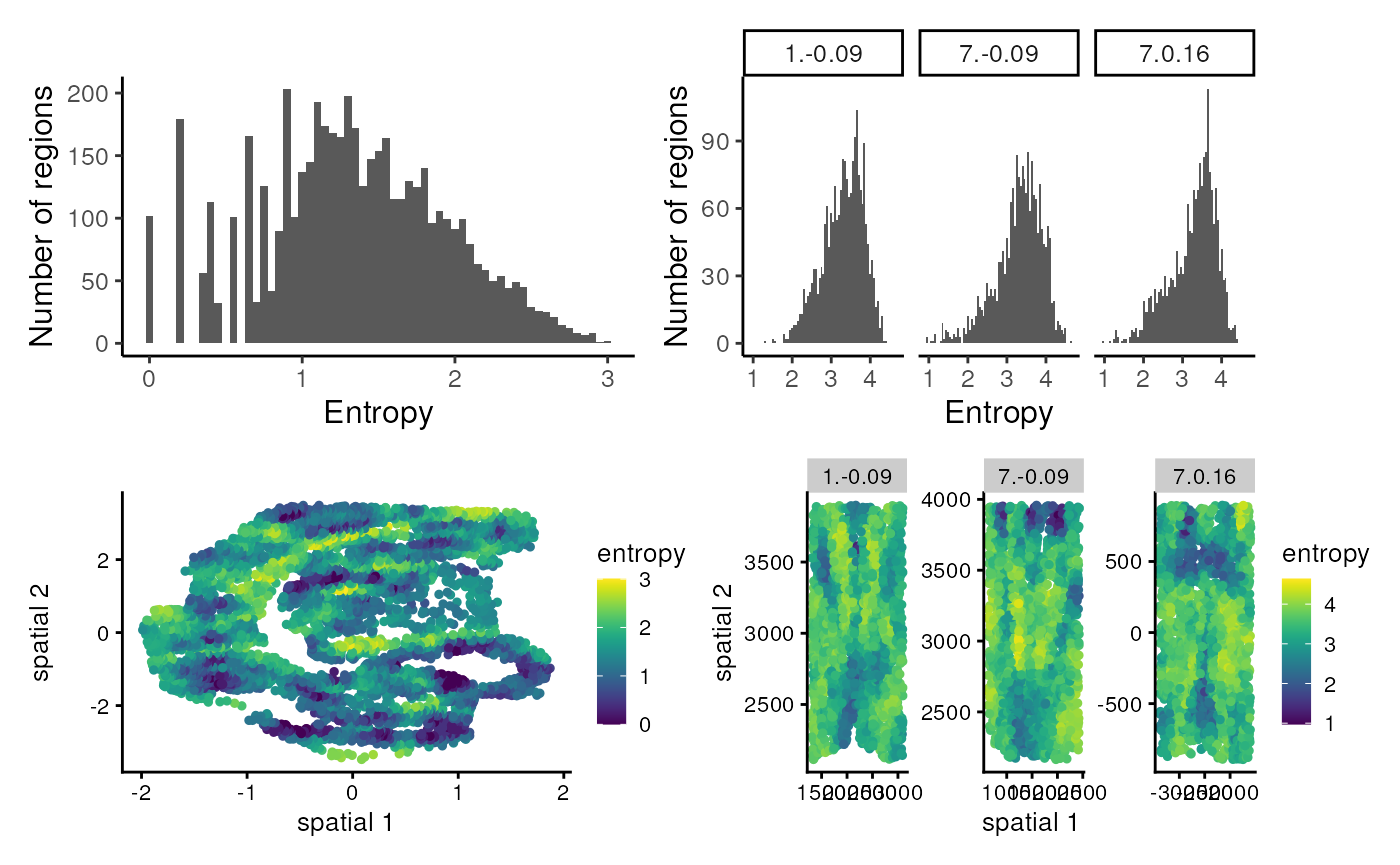
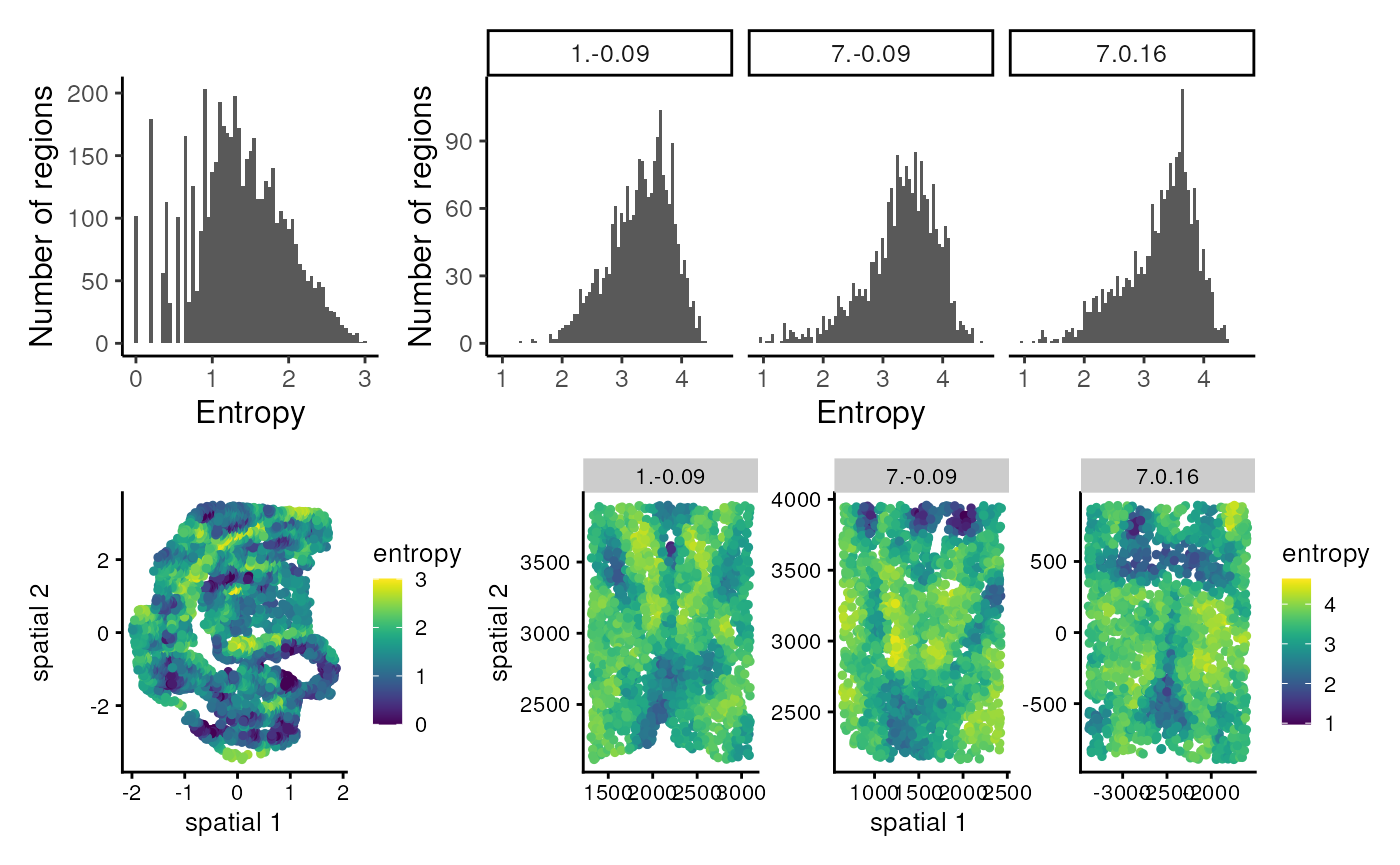
Deploying to gh-pages from @ SydneyBioX/clustSIGNAL_workshop@e07d63199d63f5c2bc3913cc8a1e43b6aa5dcfb4 🚀

diff --git a/articles/clustSIGNAL_tutorial.html b/articles/clustSIGNAL_tutorial.html
@@ -106,9 +106,9 @@ Australia<br><math display="inline" xmlns="http://www.w3.org/1998/Math/MathML"><
 Charles Perkins Centre, University of Sydney, Australia</p>
 <p>Contact: pratibha.panwar@sydney.edu.au</p>
 <p>In this RStudio instance, we will cover the remaining tasks.</p>
-<div class="section level3">
-<h3 id="setup-installation">Setup Installation<a class="anchor" aria-label="anchor" href="#setup-installation"></a>
-</h3>
+<div class="section level4">
+<h4 id="setup-installation">Setup Installation<a class="anchor" aria-label="anchor" href="#setup-installation"></a>
+</h4>
 <div class="sourceCode" id="cb1"><pre class="downlit sourceCode r">
 <code class="sourceCode R"><span><span class="co"># you do not need to run this chunk</span></span>
 <span><span class="co"># the packages are already installed in this instance</span></span>
@@ -120,9 +120,9 @@ Charles Perkins Centre, University of Sydney, Australia</p>
 <span><span class="co"># install.packages("devtools")</span></span>
 <span><span class="co"># devtools::install_github("SydneyBioX/clustSIGNAL")</span></span></code></pre></div>
 </div>
-<div class="section level3">
-<h3 id="loading-packages">Loading packages<a class="anchor" aria-label="anchor" href="#loading-packages"></a>
-</h3>
+<div class="section level4">
+<h4 id="loading-packages">Loading packages<a class="anchor" aria-label="anchor" href="#loading-packages"></a>
+</h4>
 <div class="sourceCode" id="cb2"><pre class="downlit sourceCode r">
 <code class="sourceCode R"><span><span class="co"># load required packages</span></span>
 <span><span class="kw"><a href="https://rdrr.io/r/base/library.html" class="external-link">library</a></span><span class="op">(</span><span class="va"><a href="https://sydneybiox.github.io/clustSIGNAL/" class="external-link">clustSIGNAL</a></span><span class="op">)</span></span>
@@ -153,7 +153,7 @@ expression for 181 samples, with 155 genes and a total of 1,027,080
 cells. Here, we use a subset data of 6000 cells randomly selected from
 only 3 samples - Animal 1 Bregma -0.09 (2080 cells), Animal 7 Bregma
 0.16 (1936 cells), and Animal 7 Bregma -0.09 (1984 cells), excluding
-cells that had been annotated as ‘ambiguous’ and 20 genes that were
+cells that had been annotated as ‘Ambiguous’ and 20 genes that were
 assessed using a different technology.</p>
 <p>These sampled datasets are available with clustSIGNAL package and can
 be accessed as below:</p>
@@ -169,7 +169,7 @@ be accessed as below:</p>
 <div class="section level3">
 <h3 id="creating-spatialexperiment-objects">Creating SpatialExperiment objects<a class="anchor" aria-label="anchor" href="#creating-spatialexperiment-objects"></a>
 </h3>
-<p>clustSIGNAL requires a SpatialExperiment (spe) object as input, so
+<p>ClustSIGNAL requires a SpatialExperiment (spe) object as input, so
 first we need to create a spe object from the gene expression and cell
 metadata we have in our environment.</p>
 <p>The gene expression data is in a gene by cell matrix. The cell
@@ -178,7 +178,7 @@ coordinates of each cell.</p>
 <p>Let us work with the MERFISH data first, by creating a spe object
 from the data.</p>
 <div class="sourceCode" id="cb5"><pre class="downlit sourceCode r">
-<code class="sourceCode R"><span><span class="co"># to create spe object we need gene expression, cell metadata, and cell location</span></span>
+<code class="sourceCode R"><span><span class="co"># to create spe object we need gene expression, cell metadata, and cell locations</span></span>
 <span><span class="va">spe_mh</span> <span class="op">&lt;-</span> <span class="fu"><a href="https://rdrr.io/pkg/SpatialExperiment/man/SpatialExperiment.html" class="external-link">SpatialExperiment</a></span><span class="op">(</span>assays <span class="op">=</span> <span class="fu"><a href="https://rdrr.io/r/base/list.html" class="external-link">list</a></span><span class="op">(</span>logcounts <span class="op">=</span> <span class="va">mh_expr</span><span class="op">)</span>,</span>
 <span>                            colData <span class="op">=</span> <span class="va">mh_data</span>, </span>
 <span>                            <span class="co"># spatialCoordsNames requires column names in </span></span>
@@ -207,7 +207,7 @@ be stored in one spe object), colData (the cell characteristics are
 stored here), rowData (the gene characteristics can be stored here),
 spatialCoords (the x-y coordinates of each cell are stored here),
 reducedDims (any low embeddings data can be stored here), and imgData
-(any images from the data can be stored here).</p>
+(any images from the dataset can be stored here).</p>
 </div>
 <div class="section level3">
 <h3 id="running-clustsignal">Running clustSIGNAL<a class="anchor" aria-label="anchor" href="#running-clustsignal"></a>
@@ -287,16 +287,16 @@ using the <strong>clustParams</strong> parameter list.</p>
 <span><span class="va">c_label</span> <span class="op">&lt;-</span> <span class="st">"Cell_ID"</span> <span class="co"># column name containing cell IDs</span></span>
 <span><span class="va">res_mh</span> <span class="op">&lt;-</span> <span class="fu"><a href="https://sydneybiox.github.io/clustSIGNAL/reference/clustSIGNAL.html" class="external-link">clustSIGNAL</a></span><span class="op">(</span><span class="va">spe_mh</span>, samples <span class="op">=</span> <span class="va">smp_label</span>, cells <span class="op">=</span> <span class="va">c_label</span>, </span>
 <span>                      outputs <span class="op">=</span> <span class="st">"a"</span><span class="op">)</span></span></code></pre></div>
-<pre><code><span><span class="co">#&gt; [1] "Calculating PCA. Time 04:25:54"</span></span>
-<span><span class="co">#&gt; [1] "clustSIGNAL run started. Time 04:25:54"</span></span>
-<span><span class="co">#&gt; [1] "Initial nonspatial clustering performed. Clusters = 11 Time 04:25:56"</span></span></code></pre>
-<pre><code><span><span class="co">#&gt; [1] "Nonspatial subclustering performed. Subclusters = 52 Time 04:25:57"</span></span>
-<span><span class="co">#&gt; [1] "Regions defined. Time 04:26:00"</span></span>
-<span><span class="co">#&gt; [1] "Region domainness calculated. Time 04:26:00"</span></span>
-<span><span class="co">#&gt; [1] "Smoothing performed. NN = 30 Kernel = G Spread = 0.05 Time 04:26:39"</span></span>
-<span><span class="co">#&gt; [1] "Nonspatial clustering performed on smoothed data. Clusters = 11 Time 04:26:41"</span></span>
-<span><span class="co">#&gt; [1] "clustSIGNAL run completed. 04:26:41"</span></span>
-<span><span class="co">#&gt; Time difference of 47.32858 secs</span></span></code></pre>
+<pre><code><span><span class="co">#&gt; [1] "Calculating PCA. Time 07:17:17"</span></span>
+<span><span class="co">#&gt; [1] "clustSIGNAL run started. Time 07:17:17"</span></span>
+<span><span class="co">#&gt; [1] "Initial nonspatial clustering performed. Clusters = 11 Time 07:17:18"</span></span></code></pre>
+<pre><code><span><span class="co">#&gt; [1] "Nonspatial subclustering performed. Subclusters = 52 Time 07:17:20"</span></span>
+<span><span class="co">#&gt; [1] "Regions defined. Time 07:17:23"</span></span>
+<span><span class="co">#&gt; [1] "Region domainness calculated. Time 07:17:24"</span></span>
+<span><span class="co">#&gt; [1] "Smoothing performed. NN = 30 Kernel = G Spread = 0.05 Time 07:18:03"</span></span>
+<span><span class="co">#&gt; [1] "Nonspatial clustering performed on smoothed data. Clusters = 11 Time 07:18:04"</span></span>
+<span><span class="co">#&gt; [1] "clustSIGNAL run completed. 07:18:04"</span></span>
+<span><span class="co">#&gt; Time difference of 47.37957 secs</span></span></code></pre>
 <p>Since, we selected all output option, clustSIGNAL returns a list
 including a dataframe of cluster numbers and a spe object.</p>
 <div class="sourceCode" id="cb14"><pre class="downlit sourceCode r">
@@ -304,7 +304,7 @@ including a dataframe of cluster numbers and a spe object.</p>
 <pre><code><span><span class="co">#&gt; [1] "clusters"  "spe_final"</span></span></code></pre>
 <p>The resulting spe object contains the adaptively smoothed gene
 expression data as an additional assay, initial clusters, entropy
-values, and clustSIGNAL clusters. Essentiallu, the final spe object
+values, and clustSIGNAL clusters. Essentially, the final spe object
 contains data from the input spe object plus the outputs from the
 clustSIGNAL run.</p>
 <div class="sourceCode" id="cb16"><pre class="downlit sourceCode r">
@@ -333,7 +333,7 @@ clustSIGNAL run.</p>
 <h2 id="assessing-relevance-of-clusters">4. Assessing relevance of clusters<a class="anchor" aria-label="anchor" href="#assessing-relevance-of-clusters"></a>
 </h2>
 <p>In this section, we will analyse the results from clustSIGNAL through
-clustering metrics and visualisation.</p>
+clustering metrics and visualisations.</p>
 <p>Clustering metrics such as ARI (adjusted rand index) and NMI
 (normalised mutual information) allow us to compare clustering performed
 by two methods. Here, we use ARI and NMI to compare clustSIGNAL clusters
@@ -348,16 +348,13 @@ the two groups.</p>
 <span>  <span class="co"># group cells by samples and for cells in each sample </span></span>
 <span>  <span class="co"># calculate the following metrics</span></span>
 <span>  <span class="fu"><a href="https://dplyr.tidyverse.org/reference/summarise.html" class="external-link">summarise</a></span><span class="op">(</span>ARI <span class="op">=</span> <span class="fu">aricode</span><span class="fu">::</span><span class="fu"><a href="https://rdrr.io/pkg/aricode/man/ARI.html" class="external-link">ARI</a></span><span class="op">(</span><span class="va">Cell_class</span>, <span class="va">clustSIGNAL</span><span class="op">)</span>, <span class="co"># calculate ARI</span></span>
-<span>            NMI <span class="op">=</span> <span class="fu">aricode</span><span class="fu">::</span><span class="fu"><a href="https://rdrr.io/pkg/aricode/man/NMI.html" class="external-link">NMI</a></span><span class="op">(</span><span class="va">Cell_class</span>, <span class="va">clustSIGNAL</span><span class="op">)</span>, <span class="co"># calculate NMI</span></span>
-<span>            min_Entropy <span class="op">=</span> <span class="fu"><a href="https://rdrr.io/r/base/Extremes.html" class="external-link">min</a></span><span class="op">(</span><span class="va">entropy</span><span class="op">)</span>, <span class="co"># calculate minimum entropy</span></span>
-<span>            max_Entropy <span class="op">=</span> <span class="fu"><a href="https://rdrr.io/r/base/Extremes.html" class="external-link">max</a></span><span class="op">(</span><span class="va">entropy</span><span class="op">)</span>, <span class="co"># calculate minimum entropy</span></span>
-<span>            mean_Entropy <span class="op">=</span> <span class="fu"><a href="https://rdrr.io/r/base/mean.html" class="external-link">mean</a></span><span class="op">(</span><span class="va">entropy</span><span class="op">)</span><span class="op">)</span> <span class="co"># calculate minimum entropy</span></span></code></pre></div>
-<pre><code><span><span class="co">#&gt; <span style="color: #949494;"># A tibble: 3 × 6</span></span></span>
-<span><span class="co">#&gt;   `get(smp_label)`   ARI   NMI min_Entropy max_Entropy mean_Entropy</span></span>
-<span><span class="co">#&gt;   <span style="color: #949494; font-style: italic;">&lt;fct&gt;</span>            <span style="color: #949494; font-style: italic;">&lt;dbl&gt;</span> <span style="color: #949494; font-style: italic;">&lt;dbl&gt;</span>       <span style="color: #949494; font-style: italic;">&lt;dbl&gt;</span>       <span style="color: #949494; font-style: italic;">&lt;dbl&gt;</span>        <span style="color: #949494; font-style: italic;">&lt;dbl&gt;</span></span></span>
-<span><span class="co">#&gt; <span style="color: #BCBCBC;">1</span> 1.-0.09          0.445 0.624       1.32         4.42         3.30</span></span>
-<span><span class="co">#&gt; <span style="color: #BCBCBC;">2</span> 7.-0.09          0.511 0.679       0.970        4.64         3.30</span></span>
-<span><span class="co">#&gt; <span style="color: #BCBCBC;">3</span> 7.0.16           0.645 0.744       0.970        4.42         3.26</span></span></code></pre>
+<span>            NMI <span class="op">=</span> <span class="fu">aricode</span><span class="fu">::</span><span class="fu"><a href="https://rdrr.io/pkg/aricode/man/NMI.html" class="external-link">NMI</a></span><span class="op">(</span><span class="va">Cell_class</span>, <span class="va">clustSIGNAL</span><span class="op">)</span><span class="op">)</span> <span class="co"># calculate NMI</span></span></code></pre></div>
+<pre><code><span><span class="co">#&gt; <span style="color: #949494;"># A tibble: 3 × 3</span></span></span>
+<span><span class="co">#&gt;   `get(smp_label)`   ARI   NMI</span></span>
+<span><span class="co">#&gt;   <span style="color: #949494; font-style: italic;">&lt;fct&gt;</span>            <span style="color: #949494; font-style: italic;">&lt;dbl&gt;</span> <span style="color: #949494; font-style: italic;">&lt;dbl&gt;</span></span></span>
+<span><span class="co">#&gt; <span style="color: #BCBCBC;">1</span> 1.-0.09          0.445 0.624</span></span>
+<span><span class="co">#&gt; <span style="color: #BCBCBC;">2</span> 7.-0.09          0.511 0.679</span></span>
+<span><span class="co">#&gt; <span style="color: #BCBCBC;">3</span> 7.0.16           0.645 0.744</span></span></code></pre>
 <p>The clustering output can also be visualised by plotting the spatial
 coordinates of cells and colouring by cluster numbers. Here, we use the
 plotReducedDim function from the scater R package for creating spatial
@@ -367,18 +364,18 @@ reducedDimension section of the spe object.</p>
 <code class="sourceCode R"><span><span class="co"># add the spatial coordinates to the reduced dimension section </span></span>
 <span><span class="co"># for plotting with scater package</span></span>
 <span><span class="fu">reducedDim</span><span class="op">(</span><span class="va">spe_mh</span>, <span class="st">"spatial"</span><span class="op">)</span> <span class="op">&lt;-</span> <span class="fu"><a href="https://rdrr.io/pkg/SpatialExperiment/man/SpatialExperiment-methods.html" class="external-link">spatialCoords</a></span><span class="op">(</span><span class="va">spe_mh</span><span class="op">)</span></span></code></pre></div>
-<p>To specify that we want to create spatial plots, we just specify the
-low embedding name in dimred option, in this case it is “spatial”.</p>
+<p>To specify that we want to create spatial plots, we just mention the
+correct low embedding name in the dimred option, in this case it is
+“spatial”.</p>
 <div class="sourceCode" id="cb22"><pre class="downlit sourceCode r">
-<code class="sourceCode R"><span><span class="va">p1</span> <span class="op">&lt;-</span> <span class="fu">scater</span><span class="fu">::</span><span class="fu"><a href="https://rdrr.io/pkg/scater/man/plotReducedDim.html" class="external-link">plotReducedDim</a></span><span class="op">(</span><span class="va">spe_mh</span>, </span>
-<span>                             <span class="co"># specify spatial low dimension</span></span>
-<span>                             dimred <span class="op">=</span> <span class="st">"spatial"</span>, </span>
-<span>                             colour_by <span class="op">=</span> <span class="st">"clustSIGNAL"</span>, </span>
-<span>                             point_alpha <span class="op">=</span> <span class="fl">1</span>, </span>
-<span>                             point_size <span class="op">=</span> <span class="fl">1</span><span class="op">)</span> <span class="op">+</span></span>
+<code class="sourceCode R"><span><span class="fu">scater</span><span class="fu">::</span><span class="fu"><a href="https://rdrr.io/pkg/scater/man/plotReducedDim.html" class="external-link">plotReducedDim</a></span><span class="op">(</span><span class="va">spe_mh</span>, </span>
+<span>                       <span class="co"># specify spatial low dimension</span></span>
+<span>                       dimred <span class="op">=</span> <span class="st">"spatial"</span>, </span>
+<span>                       colour_by <span class="op">=</span> <span class="st">"clustSIGNAL"</span>, </span>
+<span>                       point_alpha <span class="op">=</span> <span class="fl">1</span>, </span>
+<span>                       point_size <span class="op">=</span> <span class="fl">1</span><span class="op">)</span> <span class="op">+</span></span>
 <span>  <span class="co"># to separate out the 3 samples in the dataset</span></span>
-<span>  <span class="fu"><a href="https://ggplot2.tidyverse.org/reference/facet_wrap.html" class="external-link">facet_wrap</a></span><span class="op">(</span><span class="fu"><a href="https://dplyr.tidyverse.org/reference/vars.html" class="external-link">vars</a></span><span class="op">(</span><span class="va">spe_mh</span><span class="op">[[</span><span class="va">smp_label</span><span class="op">]</span><span class="op">]</span><span class="op">)</span>, scales <span class="op">=</span> <span class="st">"free"</span><span class="op">)</span> </span>
-<span><span class="va">p1</span></span></code></pre></div>
+<span>  <span class="fu"><a href="https://ggplot2.tidyverse.org/reference/facet_wrap.html" class="external-link">facet_wrap</a></span><span class="op">(</span><span class="fu"><a href="https://dplyr.tidyverse.org/reference/vars.html" class="external-link">vars</a></span><span class="op">(</span><span class="va">spe_mh</span><span class="op">[[</span><span class="va">smp_label</span><span class="op">]</span><span class="op">]</span><span class="op">)</span>, scales <span class="op">=</span> <span class="st">"free"</span><span class="op">)</span></span></code></pre></div>
 <p><img src="clustSIGNAL_tutorial_files/figure-html/hypothal_spatialPlots-1.png" width="700"></p>
 <p>Here, the x and y axes are the x-y coordinates of the cells. The
 dataset contains 3 samples, so we have one plot per sample. ClustSIGNAL
@@ -409,8 +406,8 @@ output.</p>
 <span><span class="co">#&gt;   Pericytes       3   0   0   1   0   0   0   0   0   0  27</span></span></code></pre>
 <p>In this table, the rows show published manual annotations and columns
 show clustSIGNAL cluster labels. ClustSIGNAL is able to capture the
-distinct cell types and also identify subgroups in some cases -
-inhibitory and excitatory neurons.</p>
+distinct cell types and also identify subgroups in some cases, e.g., the
+inhibitory neurons.</p>
 <p>To assess how distinct these clusters are, we investigate the top
 marker genes in each cluster using the FindAllMarkers function in Seurat
 R package.</p>
@@ -430,7 +427,7 @@ assay layers - counts and data - contain the same information. For
 finding cluster markers, we will use default values, which includes
 using the data layer containing logcounts.</p>
 <div class="sourceCode" id="cb27"><pre class="downlit sourceCode r">
-<code class="sourceCode R"><span><span class="co"># to specify that the cluster number information is in clustSIGNAL column</span></span>
+<code class="sourceCode R"><span><span class="co"># to specify that the cluster labels are in clustSIGNAL column</span></span>
 <span><span class="fu"><a href="https://mojaveazure.github.io/seurat-object/reference/Idents.html" class="external-link">Idents</a></span><span class="op">(</span><span class="va">seu_mh</span><span class="op">)</span> <span class="op">&lt;-</span> <span class="st">"clustSIGNAL"</span></span>
 <span><span class="co"># this will identify marker genes in each cluster using default values</span></span>
 <span><span class="va">markers_mh</span> <span class="op">&lt;-</span> <span class="fu">Seurat</span><span class="fu">::</span><span class="fu"><a href="https://satijalab.org/seurat/reference/FindAllMarkers.html" class="external-link">FindAllMarkers</a></span><span class="op">(</span><span class="va">seu_mh</span><span class="op">)</span></span></code></pre></div>
@@ -451,24 +448,27 @@ each cell to see how distinct each cluster is.</p>
 <p><img src="clustSIGNAL_tutorial_files/figure-html/hypothal_expHeatmap-1.png" width="700"></p>
 <p>Here, the genes are shown along the y-axis and the cells, grouped by
 the cluster they belong to, are displayed along the x-axis. The values
-in the heatmap are logcounts of top 10 marker genes in each cluster.</p>
+in the heatmap are logcounts of top 10 marker genes in each cluster. The
+heatmap shows that the clusters associated with inhibitory neurons have
+different gene expression patterns, which accounts for their separation
+by clustSIGNAL.</p>
 </div>
 <div class="section level2">
 <h2 id="exploring-clustsignal-outputs">5. Exploring clustSIGNAL outputs<a class="anchor" aria-label="anchor" href="#exploring-clustsignal-outputs"></a>
 </h2>
 <p>Other than the cluster labels, clustSIGNAL also generates smoothed
 gene expression, initial cluster labels, and cell neihbourhood-specific
-entropy values. Other outputs such as nearest neighbour matrix, and
+entropy values. Other outputs such as nearest neighbour matrix and
 initial cluster based neighbourhood compositions are also accessible by
 running clustSIGNAL functions sequentially.</p>
-<p>The <em>p1_clustering</em> function generates the initial cluster
-labels and adds them to the spe object, the <em>neighbourDetect</em>
+<p>The <em>p1_clustering()</em> function generates the initial cluster
+labels and adds them to the spe object, the <em>neighbourDetect()</em>
 function produces nearest neighbour matrix and neighbourhood
-compositions, the <em>entropyMeasure</em> function adds entropy values
-to the spe object, the <em>adaptiveSmoothing</em> function adds smoothed
-gene expression to the spe object, and the <em>p2_clustering</em>
-function generates the final clusters and adds them to the spe
-object.</p>
+compositions, the <em>entropyMeasure()</em> function adds entropy values
+to the spe object, the <em>adaptiveSmoothing()</em> function adds
+smoothed gene expression to the spe object, and the
+<em>p2_clustering()</em> function generates the final clusters and adds
+them to the spe object.</p>
 <p>Of these additional outputs, the entropy values can be valuable in
 exploring datasets to get a sense of the neighbourhood compositions of
 the cells, essentially revealing gene expression based tissue structure.
@@ -489,16 +489,16 @@ appropriate data.</p>
 <span><span class="co"># "uniqueID" column contains cell IDs</span></span>
 <span><span class="va">res_me</span> <span class="op">&lt;-</span> <span class="fu"><a href="https://sydneybiox.github.io/clustSIGNAL/reference/clustSIGNAL.html" class="external-link">clustSIGNAL</a></span><span class="op">(</span><span class="va">spe_me</span>, samples <span class="op">=</span> <span class="st">"sample_id"</span>, cells <span class="op">=</span> <span class="st">"uniqueID"</span>, </span>
 <span>                      outputs <span class="op">=</span> <span class="st">"a"</span><span class="op">)</span></span></code></pre></div>
-<pre><code><span><span class="co">#&gt; [1] "Calculating PCA. Time 04:27:03"</span></span>
-<span><span class="co">#&gt; [1] "clustSIGNAL run started. Time 04:27:03"</span></span>
-<span><span class="co">#&gt; [1] "Initial nonspatial clustering performed. Clusters = 11 Time 04:27:04"</span></span>
-<span><span class="co">#&gt; [1] "Nonspatial subclustering performed. Subclusters = 47 Time 04:27:06"</span></span>
-<span><span class="co">#&gt; [1] "Regions defined. Time 04:27:08"</span></span>
-<span><span class="co">#&gt; [1] "Region domainness calculated. Time 04:27:08"</span></span>
-<span><span class="co">#&gt; [1] "Smoothing performed. NN = 30 Kernel = G Spread = 0.05 Time 04:27:40"</span></span>
-<span><span class="co">#&gt; [1] "Nonspatial clustering performed on smoothed data. Clusters = 15 Time 04:27:41"</span></span>
-<span><span class="co">#&gt; [1] "clustSIGNAL run completed. 04:27:41"</span></span>
-<span><span class="co">#&gt; Time difference of 38.11643 secs</span></span></code></pre>
+<pre><code><span><span class="co">#&gt; [1] "Calculating PCA. Time 07:18:27"</span></span>
+<span><span class="co">#&gt; [1] "clustSIGNAL run started. Time 07:18:27"</span></span>
+<span><span class="co">#&gt; [1] "Initial nonspatial clustering performed. Clusters = 11 Time 07:18:28"</span></span>
+<span><span class="co">#&gt; [1] "Nonspatial subclustering performed. Subclusters = 47 Time 07:18:30"</span></span>
+<span><span class="co">#&gt; [1] "Regions defined. Time 07:18:32"</span></span>
+<span><span class="co">#&gt; [1] "Region domainness calculated. Time 07:18:33"</span></span>
+<span><span class="co">#&gt; [1] "Smoothing performed. NN = 30 Kernel = G Spread = 0.05 Time 07:19:06"</span></span>
+<span><span class="co">#&gt; [1] "Nonspatial clustering performed on smoothed data. Clusters = 15 Time 07:19:07"</span></span>
+<span><span class="co">#&gt; [1] "clustSIGNAL run completed. 07:19:07"</span></span>
+<span><span class="co">#&gt; Time difference of 39.39348 secs</span></span></code></pre>
 <div class="sourceCode" id="cb31"><pre class="downlit sourceCode r">
 <code class="sourceCode R"><span><span class="va">spe_me</span> <span class="op">&lt;-</span> <span class="va">res_me</span><span class="op">$</span><span class="va">spe_final</span></span>
 <span><span class="va">spe_me</span></span></code></pre></div>
@@ -517,7 +517,7 @@ appropriate data.</p>
 <span><span class="co">#&gt; spatialCoords names(2) : X Y</span></span>
 <span><span class="co">#&gt; imgData names(1): sample_id</span></span></code></pre>
 <p>To explore the dataset, we can estimate the spread and distribution
-of the entropy values using histogram and spatial plots
+of the entropy values using histogram and spatial plots,
 respectively.</p>
 <div class="sourceCode" id="cb33"><pre class="downlit sourceCode r">
 <code class="sourceCode R"><span><span class="co"># histogram plots to show entropy spread</span></span>
@@ -555,7 +555,8 @@ respectively.</p>
 <span>  <span class="co"># to separate out the 3 samples in the dataset</span></span>
 <span>  <span class="fu"><a href="https://ggplot2.tidyverse.org/reference/facet_wrap.html" class="external-link">facet_wrap</a></span><span class="op">(</span><span class="fu"><a href="https://dplyr.tidyverse.org/reference/vars.html" class="external-link">vars</a></span><span class="op">(</span><span class="va">spe_mh</span><span class="op">[[</span><span class="va">smp_label</span><span class="op">]</span><span class="op">]</span><span class="op">)</span>, scales <span class="op">=</span> <span class="st">"free"</span><span class="op">)</span> </span>
 <span></span>
-<span><span class="op">(</span><span class="va">h1</span> <span class="op">+</span> <span class="va">h2</span><span class="op">)</span> <span class="op">/</span> <span class="op">(</span><span class="va">s1</span> <span class="op">+</span> <span class="va">s2</span><span class="op">)</span> <span class="op">+</span> <span class="fu">patchwork</span><span class="fu">::</span><span class="fu"><a href="https://patchwork.data-imaginist.com/reference/plot_layout.html" class="external-link">plot_layout</a></span><span class="op">(</span>widths <span class="op">=</span> <span class="fu"><a href="https://rdrr.io/r/base/c.html" class="external-link">c</a></span><span class="op">(</span><span class="fl">1</span>, <span class="fl">3</span><span class="op">)</span><span class="op">)</span></span></code></pre></div>
+<span><span class="op">(</span><span class="va">h1</span> <span class="op">+</span> <span class="va">h2</span> <span class="op">+</span> <span class="fu">patchwork</span><span class="fu">::</span><span class="fu"><a href="https://patchwork.data-imaginist.com/reference/plot_layout.html" class="external-link">plot_layout</a></span><span class="op">(</span>widths <span class="op">=</span> <span class="fu"><a href="https://rdrr.io/r/base/c.html" class="external-link">c</a></span><span class="op">(</span><span class="fl">1</span>, <span class="fl">3</span><span class="op">)</span><span class="op">)</span><span class="op">)</span> <span class="op">/</span>  </span>
+<span>  <span class="op">(</span><span class="va">s1</span> <span class="op">+</span> <span class="va">s2</span> <span class="op">+</span> <span class="fu">patchwork</span><span class="fu">::</span><span class="fu"><a href="https://patchwork.data-imaginist.com/reference/plot_layout.html" class="external-link">plot_layout</a></span><span class="op">(</span>widths <span class="op">=</span> <span class="fu"><a href="https://rdrr.io/r/base/c.html" class="external-link">c</a></span><span class="op">(</span><span class="fl">1</span>, <span class="fl">3</span><span class="op">)</span><span class="op">)</span><span class="op">)</span></span></code></pre></div>
 <p><img src="clustSIGNAL_tutorial_files/figure-html/compare_hist-1.png" width="700"></p>
 <p>The entropy plots help us gauge the “domainness” in the samples. For
 example, the neighbourhood entropy values in the mouse embryo data can
@@ -570,10 +571,9 @@ nearest neighbours in this example, and changing the <strong>NN</strong>
 parameter when running clustSIGNAL will generate different entropy
 values. Comparing entropy values from different neighbourhood sizes
 could be useful in estimating the size of the domain-like regions.</p>
-</div>
-<div class="section level2">
-<h2 id="summary">Summary<a class="anchor" aria-label="anchor" href="#summary"></a>
-</h2>
+<div class="section level3">
+<h3 id="summary">Summary<a class="anchor" aria-label="anchor" href="#summary"></a>
+</h3>
 <div class="summary">
 <ul>
 <li><p>ClustSIGNAL is a method developed to counter data sparsity by
@@ -682,6 +682,7 @@ samples.</p></li>
 <span><span class="co">#&gt; [139] future_1.34.0           shiny_1.9.1             highr_0.11             </span></span>
 <span><span class="co">#&gt; [142] ROCR_1.0-11             igraph_2.1.1            bslib_0.8.0</span></span></code></pre>
 </details>
+</div>
 </div>
   </div>
 
